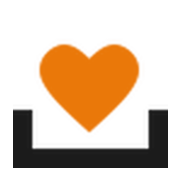
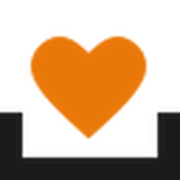
add readme, update images

Changed region(s): [[0.0, 0.5833, 1.0, 1.0], [0.1667, 0.1944, 0.8333, 0.7778]]

diff --git a/index.html b/index.html
@@ -3,10 +3,11 @@
   <head>
     <meta charset="UTF-8" />
     <meta name="viewport" content="width=device-width, initial-scale=1.0" />
+    <meta name="theme-color" content="#ea7809" />
 
     <link rel="apple-touch-icon" sizes="180x180" />
     <link rel="mask-icon" href="safari-pinned-tab.svg" color="#ea7809" />
-    <link rel="manifest" href="/site.webmanifest" />
+    <link rel="manifest" />
 
     <title>Stack Overflown</title>
 

diff --git a/README.md b/README.md
@@ -1,0 +1,6 @@
+# [Stack Overflown](https://stackoverflown.com)
+
+> If Stack Overflown was a website, it would be full of programming errors and typos.
+
+Stack Overflown is a website that parodies the popular programming question and answer platform, Stack Overflow.
+If you accidentally misspell the URL and end up on Stack Overflown, you'll be greeted with random humorous jokes and puns, rather than technical advice.
